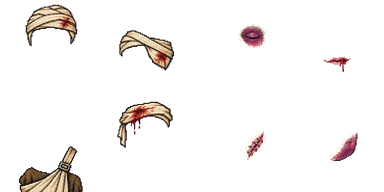
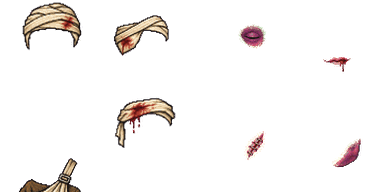
M8.34: refit face details after Mike's second look
Eyepatch smaller (0.8) to fit the eye; head bandage and bloodied cloth a
little bigger; one-eye bandage mirrored and moved up so it covers one eye;
sling lower, over the shoulder; bruised jaw lower and further out; cheek
scar kept inside the jaw on narrow heads. Earring, nose ring and cut lip
now follow each head's ear and mouth (EAR_DX / MOUTH_DY in Portrait.tsx).

Claude-Session: https://claude.ai/code/session_01AEHRuyL7H8HzouUj5rBoPL

diff --git a/src/ui/art/Portrait.tsx b/src/ui/art/Portrait.tsx
@@ -34,6 +34,21 @@ const ROWS: Record<Layer, number> = {
  */
 const HIDES_HAIR = new Set([0, 1, 2, 3, 4, 5, 6, 7, 8, 10, 12, 13]);
 
+/**
+ * The heads aren't all built alike: wide heads have their ears further out,
+ * and mouths sit a pixel or two higher or lower (M8.34). Details that hang off
+ * an ear or a mouth move with them, in 96px cell pixels, by head.
+ */
+const EAR_DX = [0, 1, 1, 0, -2, 4, -1, -1];
+const MOUTH_DY = [0, -2, 2, 0, 1, -1, 2, 1];
+/** Which details follow the ear or the mouth: extras 3 nose ring, 6 earring; injury 3 cut lip. */
+function shiftFor(layer: "extras" | "injuries", cell: number, head: number): [number, number] {
+  if (layer === "extras" && cell === 6) return [EAR_DX[head] ?? 0, 0];
+  if ((layer === "extras" && cell === 3) || (layer === "injuries" && cell === 3))
+    return [0, MOUTH_DY[head] ?? 0];
+  return [0, 0];
+}
+
 /** Hair colours, as CSS filters over the mid-brown the parts are drawn in. */
 export const HAIR = {
   brown: "none",
@@ -98,12 +113,15 @@ function Part({
   cell,
   size,
   filter,
+  shift,
 }: {
   layer: Layer;
   cell: number;
   size: number;
   filter?: string;
+  shift?: [number, number];
 }) {
+  const [dx, dy] = shift ?? [0, 0];
   return (
     <span
       className="face-part"
@@ -112,6 +130,7 @@ function Part({
         backgroundSize: `${4 * size}px ${ROWS[layer] * size}px`,
         backgroundPosition: `-${(cell % 4) * size}px -${Math.floor(cell / 4) * size}px`,
         filter: filter && filter !== "none" ? filter : undefined,
+        transform: dx || dy ? `translate(${(dx * size) / 96}px, ${(dy * size) / 96}px)` : undefined,
       }}
     />
   );
@@ -140,14 +159,28 @@ export function Portrait({
       title={frame ? `${hero.name} (${frame.name})` : undefined}
     >
       <Part layer="heads" cell={f.head} size={size} />
-      {f.extra !== undefined ? <Part layer="extras" cell={f.extra} size={size} /> : null}
+      {f.extra !== undefined ? (
+        <Part
+          layer="extras"
+          cell={f.extra}
+          size={size}
+          shift={shiftFor("extras", f.extra, f.head)}
+        />
+      ) : null}
       {f.beard !== undefined ? (
         <Part layer="beards" cell={f.beard} size={size} filter={tint} />
       ) : null}
       {f.hair !== undefined && !(f.hat !== undefined && HIDES_HAIR.has(f.hat)) ? (
         <Part layer="hair" cell={f.hair} size={size} filter={tint} />
       ) : null}
-      {f.injury !== undefined ? <Part layer="injuries" cell={f.injury} size={size} /> : null}
+      {f.injury !== undefined ? (
+        <Part
+          layer="injuries"
+          cell={f.injury}
+          size={size}
+          shift={shiftFor("injuries", f.injury, f.head)}
+        />
+      ) : null}
       {f.hat !== undefined ? <Part layer="hats" cell={f.hat} size={size} /> : null}
     </span>
   );

diff --git a/scripts/cut-faces.py b/scripts/cut-faces.py
@@ -55,15 +55,18 @@ OWN = {
     # cheek and an earring in one, M8.34): each is moved onto its own spot,
     # measured against the heads (eyes y~36, nose tip ~51, mouth ~57, earlobe
     # x~75 y~49).
-    ("extras", 2): (1.0, -2, -14),  # eyepatch over the eye
+    ("extras", 1): (1.0, -4, 0),  # cheek scar kept inside the jaw on narrow heads
+    ("extras", 2): (0.8, 0, -16),  # eyepatch over the eye, sized to it
     ("extras", 3): (1.0, 1, -6),  # nose ring hangs from the nose, not the chin
     ("extras", 6): (1.0, 10, 5),  # earring on the earlobe
-    ("extras", 7): (1.0, 3, -5),  # tattoo on the temple
-    ("injuries", 0): (0.94, 0, -20),  # the head bandage goes round the brow
+    ("extras", 7): (1.0, 1, -5),  # tattoo on the temple
+    ("injuries", 0): (1.06, 0, -19),  # the head bandage goes round the brow
+    ("injuries", 1): (1.0, 0, -15),  # bandage over one eye (flipped, see FLIP)
     ("injuries", 2): (1.0, 1, -15),  # black eye round the eye
     ("injuries", 3): (1.0, 0, -6),  # cut lip on the lip
-    ("injuries", 4): (1.0, 0, 24),  # the sling sits on the shoulder
-    ("injuries", 5): (1.0, 0, -10),  # bloodied cloth on the forehead
+    ("injuries", 4): (1.0, 0, 36),  # the sling sits over the shoulder
+    ("injuries", 5): (1.08, 0, -11),  # bloodied cloth on the forehead
+    ("injuries", 7): (1.0, 3, 6),  # bruised jaw out on the jaw
     ("hats", 0): (1.22, 0, -11),  # miner's cap
     ("hats", 1): (1.32, 0, -10),  # nasal helm
     ("hats", 2): (1.32, 0, -8),  # helmet and coif
@@ -73,6 +76,10 @@ OWN = {
     ("hats", 12): (1.4, 0, 0),  # spellblade's half-helm
     ("hats", 15): (1.22, 0, 30),  # fur collar
 }
+
+# Parts mirrored left to right before fitting: the one-eye bandage covered
+# the eye the other eye details don't (Mike, M8.34).
+FLIP = {("injuries", 1)}
 
 # Parts drawn as two pieces with a gap between, each fitted on its own: the
 # row to cut at, then the fit above it and the fit below it.
@@ -120,6 +127,8 @@ def main(src, dest):
                 sheet.alpha_composite(fitted(top, above), at)
                 sheet.alpha_composite(fitted(bottom, below), at)
                 continue
+            if (layer, i) in FLIP:
+                part = part.transpose(Image.FLIP_LEFT_RIGHT)
             fit = OWN.get((layer, i), FIT[layer])
             sheet.alpha_composite(fitted(part, fit), at)
         out = os.path.join(dest, f"{layer}.png")
